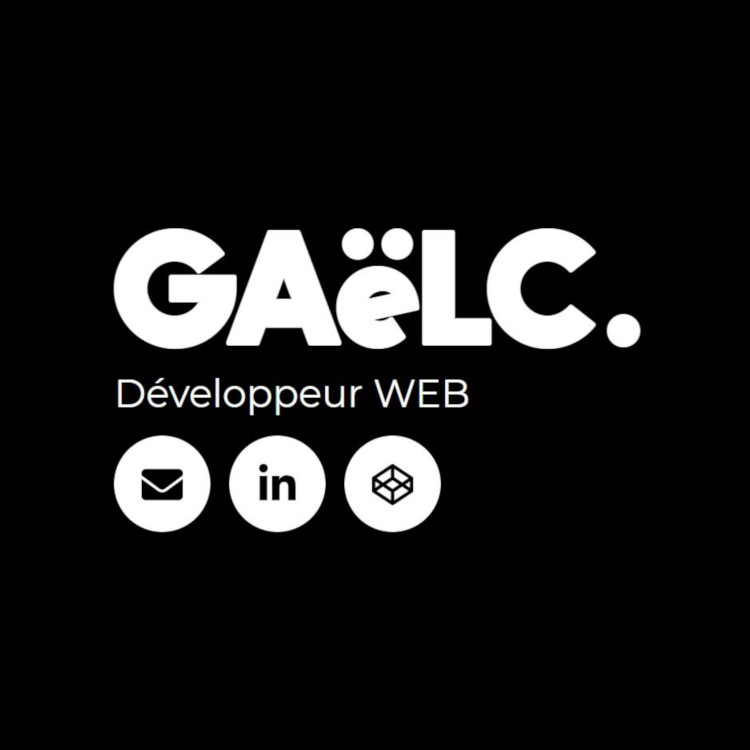
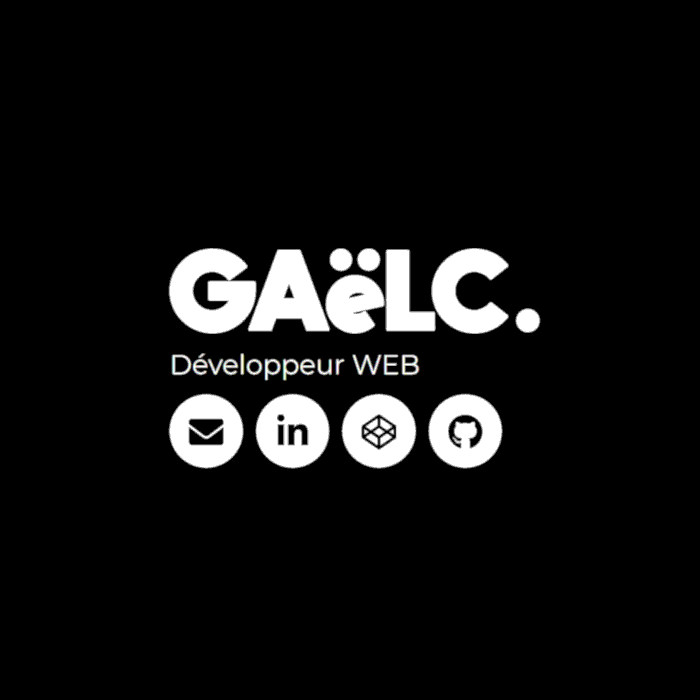
ajout github

Changed region(s): [[0.15, 0.3, 0.87, 0.72]]

diff --git a/src/Title/Title.js b/src/Title/Title.js
@@ -1,7 +1,7 @@
 import React from 'react'
 import { FontAwesomeIcon } from '@fortawesome/react-fontawesome'
 import { faEnvelope } from '@fortawesome/free-solid-svg-icons'
-import { faLinkedinIn } from '@fortawesome/free-brands-svg-icons'
+import { faLinkedinIn , faGithub, faGithubAlt } from '@fortawesome/free-brands-svg-icons'
 import { faCodepen } from '@fortawesome/free-brands-svg-icons'
 //import ContactForm from "../ContactForm/ContactForm"
 
@@ -34,6 +34,12 @@ class Title extends React.Component{
                         target='_blank'
                         rel="noopener noreferrer">
                         <FontAwesomeIcon icon={faCodepen}/>
+                    </a>
+                    <a className="btn btn--iconLight" 
+                        href='https://github.com/Gazowski' 
+                        target='_blank'
+                        rel="noopener noreferrer">
+                        <FontAwesomeIcon icon={faGithub}/>
                     </a>
                 </div>
                 {/* <ContactForm class="contactForm overlay displayNone"/>       */}

diff --git a/src/Title/Title.css b/src/Title/Title.css
@@ -30,10 +30,10 @@
     border-radius: 50%;
     color:var(--primary-dark);
     display: inline-block;
-    font-size: 1.1rem;
-    height: 2.5rem;
+    font-size: 1.3rem;
+    height: 2.7rem;
     margin-right: .5rem;
-    min-width: 2.5rem;
+    min-width: 2.7rem;
     outline: none;
     padding: .5rem ;
     text-align: center;
